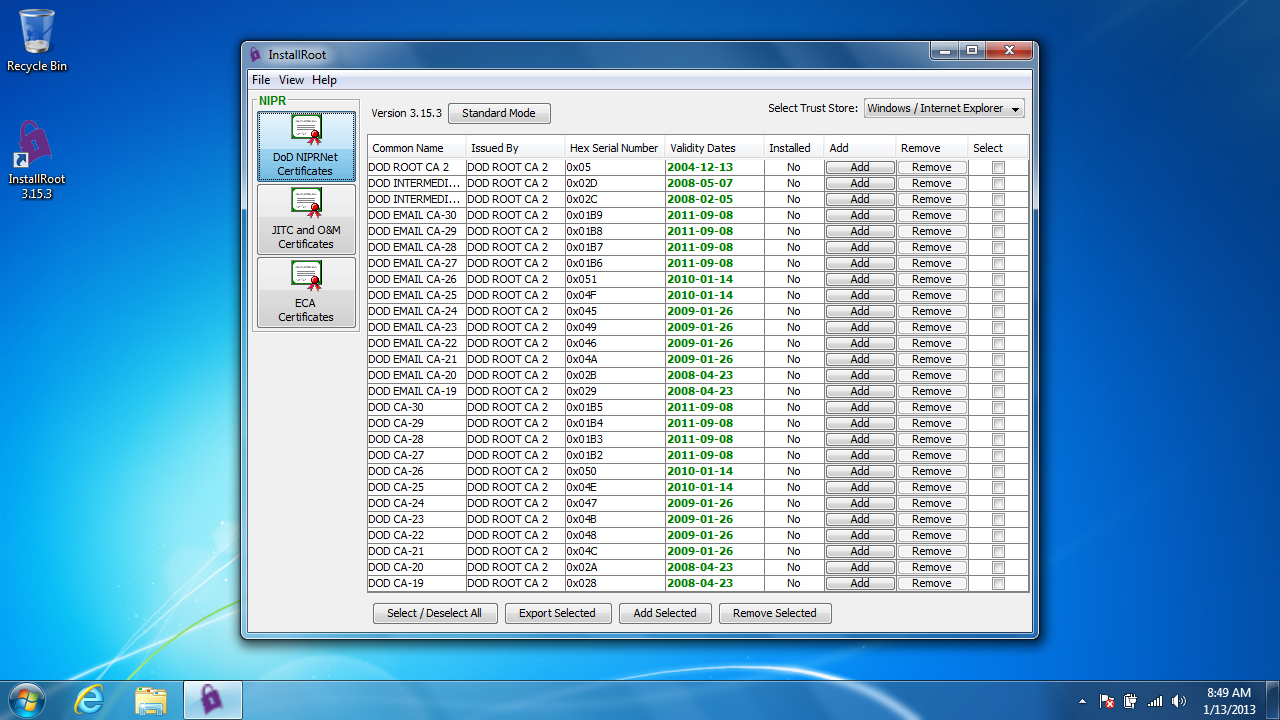
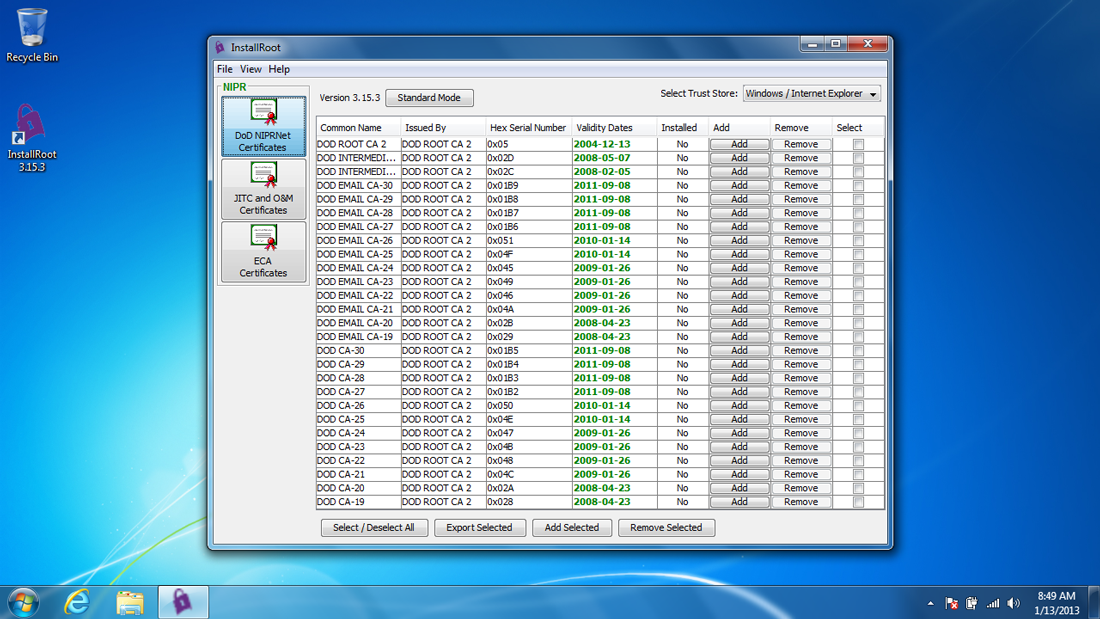
- Added Medrec project - Updated size for screen shots so they aren't over 1MB

diff --git a/index.htm b/index.htm
@@ -39,6 +39,66 @@
     <div class="tab-pane active" id="nav-projects">
       <div class="container">
         <div class="row">
+          <!-- Medrec -->
+          <div class="hero-unit hero-unit-project">
+            <div class="tabbable tabs-left">
+              <ul class="nav nav-tabs">
+                <blockquote>
+                  <h2>Medrec</h2>
+                  <small>2012</small>
+                </blockquote>
+                <li><a href="#mrA" data-toggle="tab">Overview</a></li>
+                <li><a href="#mrB" data-toggle="tab">Screenshots</a></li>
+                <li><a href="#mrC" data-toggle="tab">Technologies</a></li>
+              </ul>
+              <div class="tab-content">
+                <div class="tab-pane textpad" id="mrA">
+                  Medrec Chief
+                </div>
+                <div class="tab-pane  active" id="mrB">
+                  <div id="medrecCaorusel" class="carousel slide">
+                    <div class="carousel-inner">
+                      <div class="item active">
+                        <div class="crop-img">
+                          <img src="assets/joeblau/img/ss/medrec01.png" alt="">
+                        </div>
+                        <div class="carousel-caption">
+                          <h4>Medrec iPad visualization</h4>
+                        </div>
+                      </div>
+                      <div class="item">
+                        <div class="crop-img">
+                          <img src="assets/joeblau/img/ss/medrec02.png" alt="">
+                        </div>
+                        <div class="carousel-caption">
+                          <h4>Medrec iPhone visualization</h4>
+                        </div>
+                      </div>
+                    </div>
+                    <a class="left carousel-control" href="#medrecCaorusel" data-slide="prev">‹</a>
+                    <a class="right carousel-control" href="#medrecCaorusel" data-slide="next">›</a>
+                  </div>
+                </div>
+                <div class="tab-pane textpad" id="mrC">
+                  <div class="row hero-list">
+                    <div class="span3">
+                      <div class="image-wrapper">
+                        <img height="64" width="64" src="assets/joeblau/img/logos/html5.png"/>
+                      </div>
+                      <h2>HTML5</h2>
+                    </div>
+                    <div class="span3">
+                      <div class="image-wrapper">
+                        <img height="64" width="64" src="assets/joeblau/img/logos/css3.png"/>
+                      </div>
+                      <h2>CSS3</h2>
+                    </div>
+                  </div>
+                </div>
+              </div>
+            </div>
+          </div>
+
           <!-- Stop SOPA -->
           <div class="hero-unit hero-unit-project">
             <div class="tabbable tabs-left">
